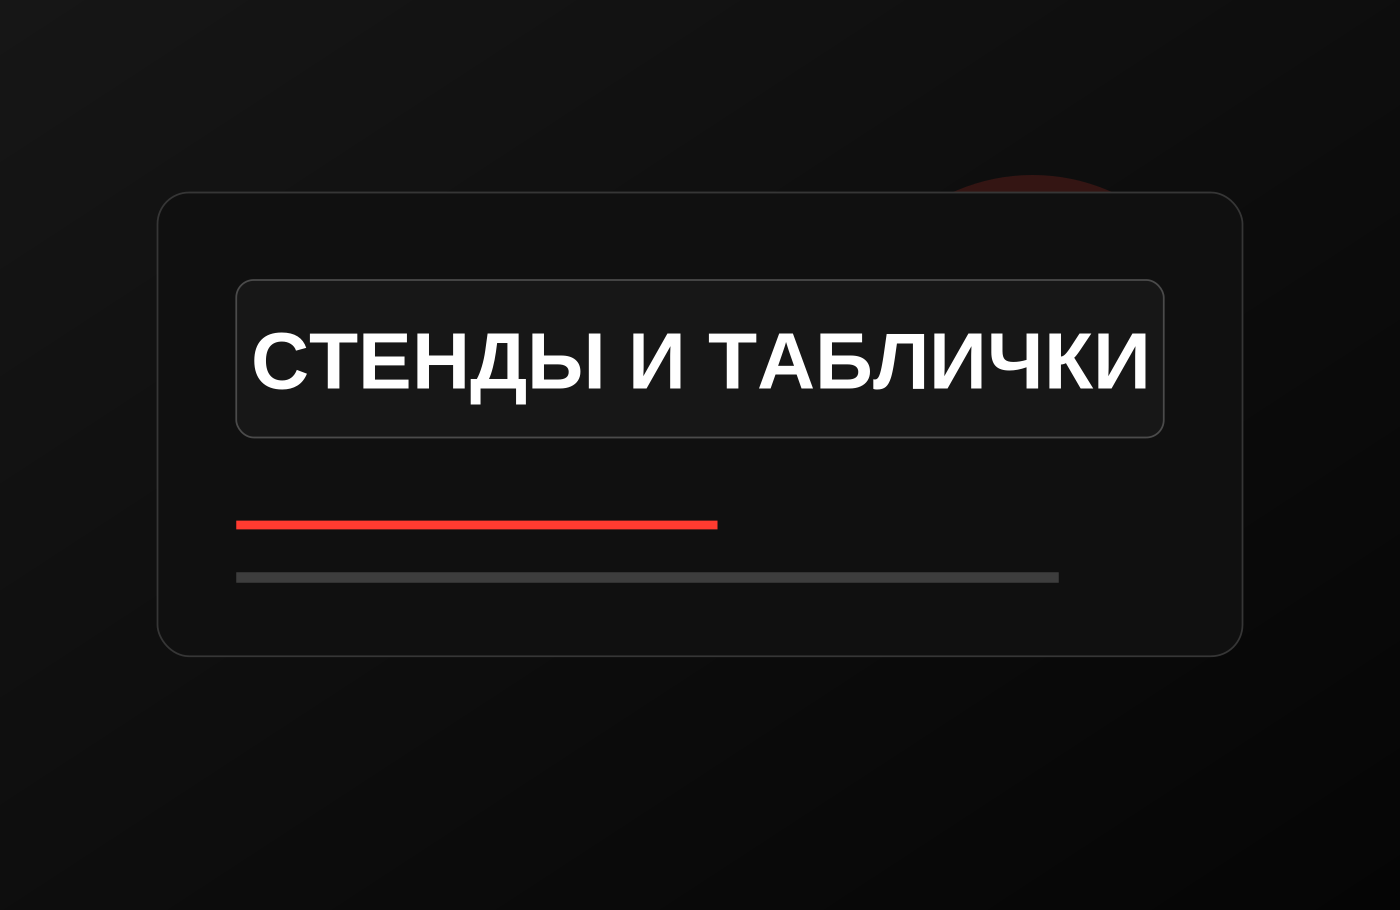
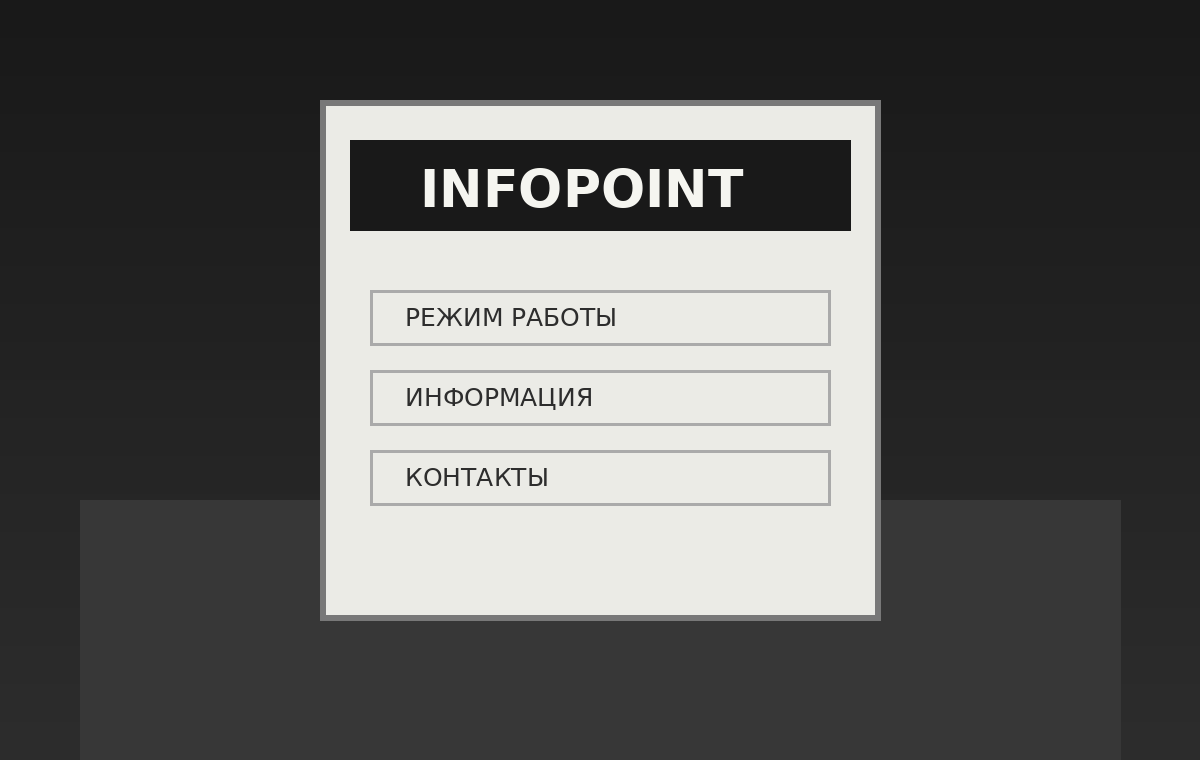
Add files via upload

diff --git a/index.html b/index.html
@@ -122,6 +122,22 @@
     </article></div>
 </section>
 
+
+<section class="all-services" id="all-services">
+  <div class="section-head">
+    <div>
+      <div class="section-num">02.1</div>
+      <h2>Дополнительные услуги</h2>
+      <p>Изготавливаем рекламную и информационную продукцию для фасадов, интерьеров и навигации.</p>
+    </div>
+  </div>
+  <div class="services-grid extra-services-grid">
+    <article class="service-card"><img src="service-stands.png" alt="Стенды и информационные конструкции"><div class="service-copy"><h3>Стенды</h3><p>Информационные, настенные, напольные стенды и конструкции для организаций.</p><small>Визуализация. Пример возможного исполнения</small></div></article>
+    <article class="service-card"><img src="service-address.png" alt="Адресные таблички"><div class="service-copy"><h3>Адресные таблички</h3><p>Название улицы, номер дома, навигационные и фасадные таблички.</p><small>Визуализация. Пример возможного исполнения</small></div></article>
+    <article class="service-card"><img src="service-print.png" alt="Широкоформатная и интерьерная печать"><div class="service-copy"><h3>Широкоформатная и интерьерная печать</h3><p>Печать баннеров, плёнки, постеров и материалов для оформления интерьеров.</p><small>Визуализация. Пример возможного исполнения</small></div></article>
+    <article class="service-card"><img src="service-plotter.png" alt="Плоттерная резка"><div class="service-copy"><h3>Плоттерная резка</h3><p>Резка самоклеящейся плёнки, надписей, логотипов и декоративных элементов.</p><small>Визуализация. Пример возможного исполнения</small></div></article>
+  </div>
+</section>
 <section class="works" id="works">
   <div class="section-head">
     <div><small>03</small><h2>Наши работы</h2><p>Здесь — только реальные проекты РПК «Алфавит».</p></div>

diff --git a/style.css b/style.css
@@ -13,3 +13,18 @@
 footer{display:grid;grid-template-columns:220px 1fr 1fr auto;gap:24px;align-items:center;padding:34px 4vw;background:#080808;color:#fff}footer img{height:40px;width:auto}footer div{display:flex;flex-direction:column;gap:4px}footer span{font-size:12px;color:#777}
 @media(max-width:1000px){.topbar{grid-template-columns:1fr auto}.topbar nav{display:none}.hero{grid-template-columns:1fr}.hero-image{min-height:520px}.service-grid{grid-template-columns:repeat(2,1fr)}.works-row,.works-more{grid-template-columns:repeat(3,1fr)}.stats{grid-template-columns:1fr 1fr}.stats div{border-right:0;border-bottom:1px solid #292929}.step-grid{grid-template-columns:1fr 1fr}.calc{grid-template-columns:1fr}footer{grid-template-columns:1fr 1fr}}
 @media(max-width:600px){.topbar{height:74px}.logo img{height:36px}.header-cta{padding:11px 14px}.hero-copy{padding:55px 5vw}.hero h1{font-size:46px}.hero-benefits{grid-template-columns:1fr}.hero-image{min-height:360px}.services,.works,.steps,.calc,.faq{padding-left:5vw;padding-right:5vw}.service-grid{grid-template-columns:1fr}.service-card>img{height:240px}.works-row,.works-more{grid-template-columns:1fr 1fr}.work-card img{height:170px}.stats{grid-template-columns:1fr}.step-grid{grid-template-columns:1fr}.calc form{grid-template-columns:1fr}.calc button{grid-column:auto}footer{grid-template-columns:1fr}}
+
+/* Additional services — additive only; existing assembly unchanged */
+.all-services{background:#0d0d0e;color:#fff;padding:42px 4vw 52px}
+.all-services .section-head{max-width:1400px;margin:0 auto 26px}
+.all-services h2{font-size:clamp(34px,4vw,58px);margin:4px 0 8px}
+.all-services .section-head p{color:#aaa;margin:0}
+.extra-services-grid{max-width:1400px;margin:0 auto;display:grid;grid-template-columns:repeat(4,minmax(0,1fr));gap:16px}
+.extra-services-grid .service-card{overflow:hidden;border:1px solid #303033;border-radius:20px;background:#151516}
+.extra-services-grid .service-card img{width:100%;height:220px;display:block;object-fit:cover}
+.extra-services-grid .service-copy{padding:18px}
+.extra-services-grid h3{margin:0 0 9px;font-size:22px}
+.extra-services-grid p{margin:0 0 18px;color:#aaa;line-height:1.45}
+.extra-services-grid small{color:#666}
+@media(max-width:1024px){.extra-services-grid{grid-template-columns:repeat(2,minmax(0,1fr))}}
+@media(max-width:640px){.extra-services-grid{grid-template-columns:1fr}.all-services{padding:32px 20px 40px}}
